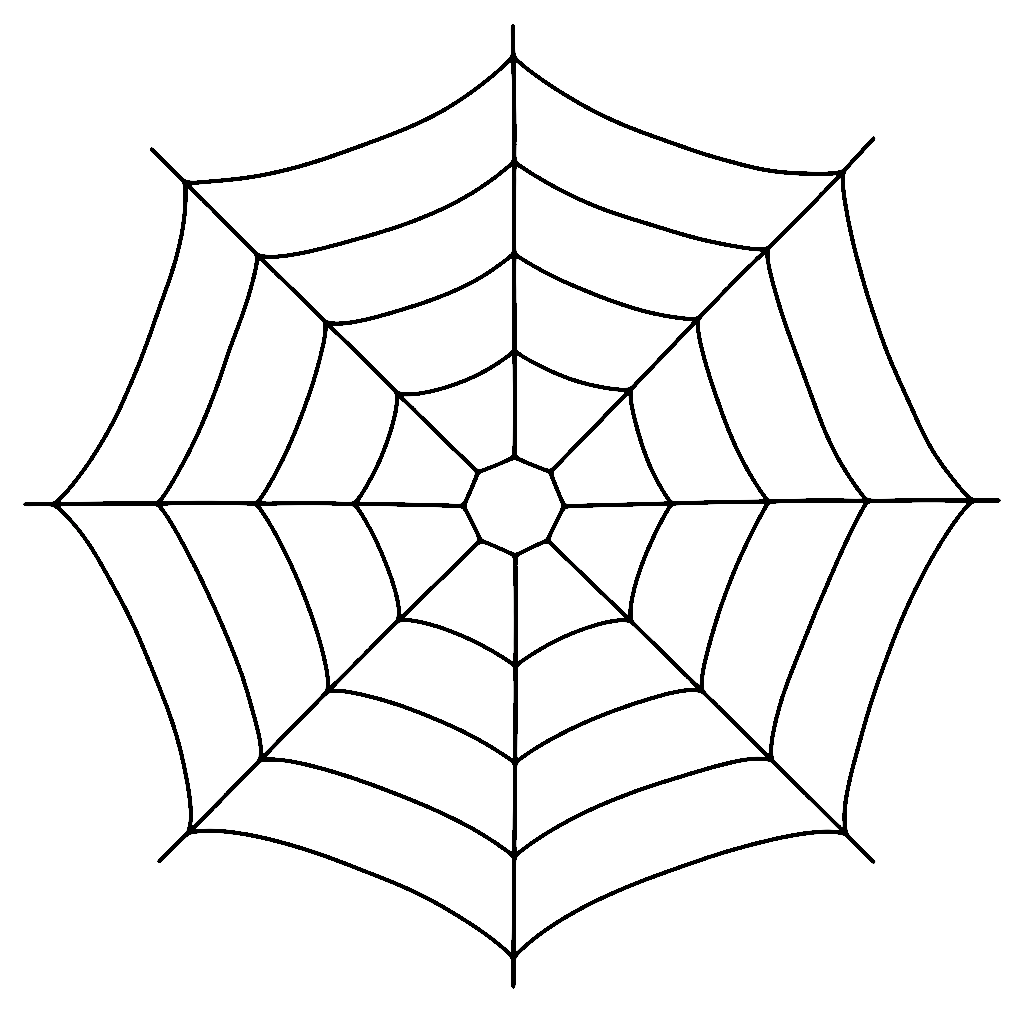
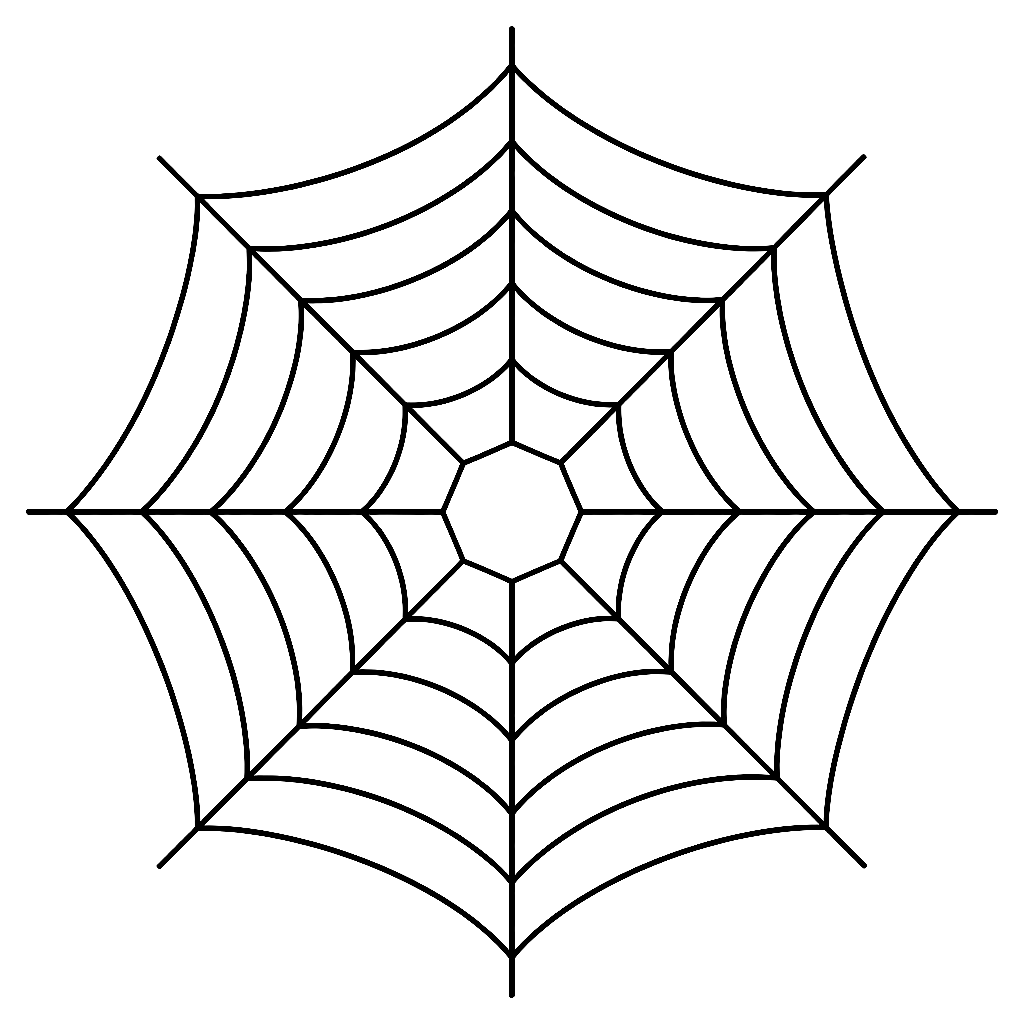
Use black spiderweb graphic behind Spider kids photo
Swap to the black-line transparent spiderweb asset and drop the white silk variant.

diff --git a/src/components/invite/InvitePage.tsx b/src/components/invite/InvitePage.tsx
@@ -2628,8 +2628,8 @@ export default function InvitePage({
           z-index: 0;
           pointer-events: none;
           object-fit: contain;
-          opacity: 0.88;
-          filter: drop-shadow(0 0 4px rgba(255, 255, 255, 0.28));
+          opacity: 0.9;
+          filter: drop-shadow(0 1px 1px rgba(0, 0, 0, 0.25));
         }
 
         :global(.invite-cover[data-layout="spiderweb"] .spider-photo-frame) {

diff --git a/src/components/invite/InviteCover.tsx b/src/components/invite/InviteCover.tsx
@@ -154,7 +154,7 @@ function SpiderWebBehind() {
     // eslint-disable-next-line @next/next/no-img-element
     <img
       className="spider-photo-web"
-      src="/templates/spider-web-white.png"
+      src="/templates/spider-web.png"
       alt=""
       aria-hidden
     />
